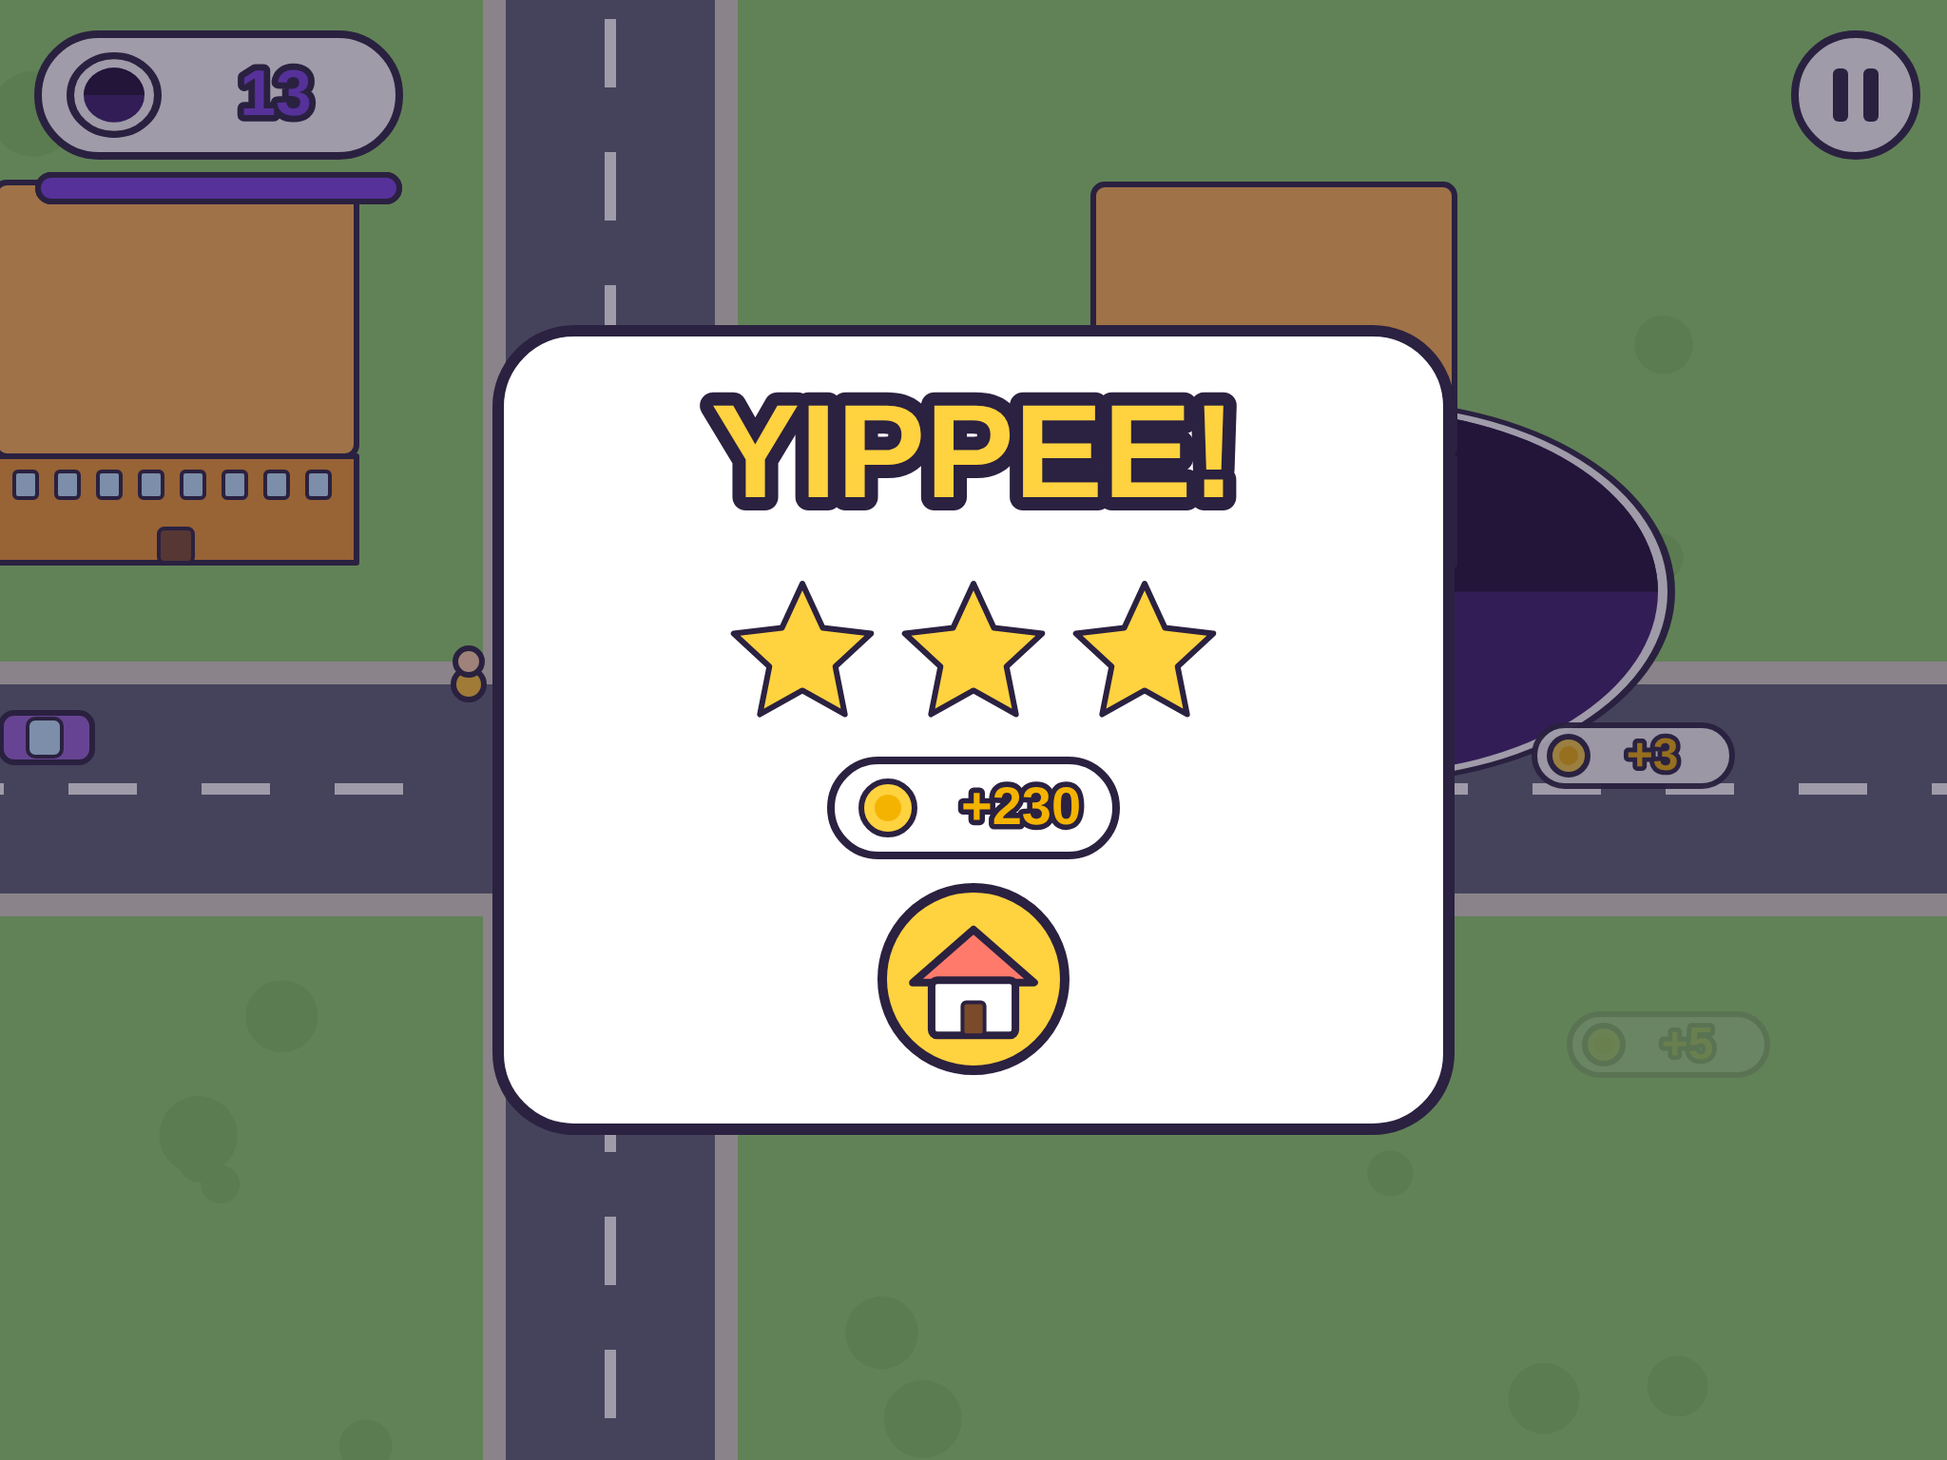
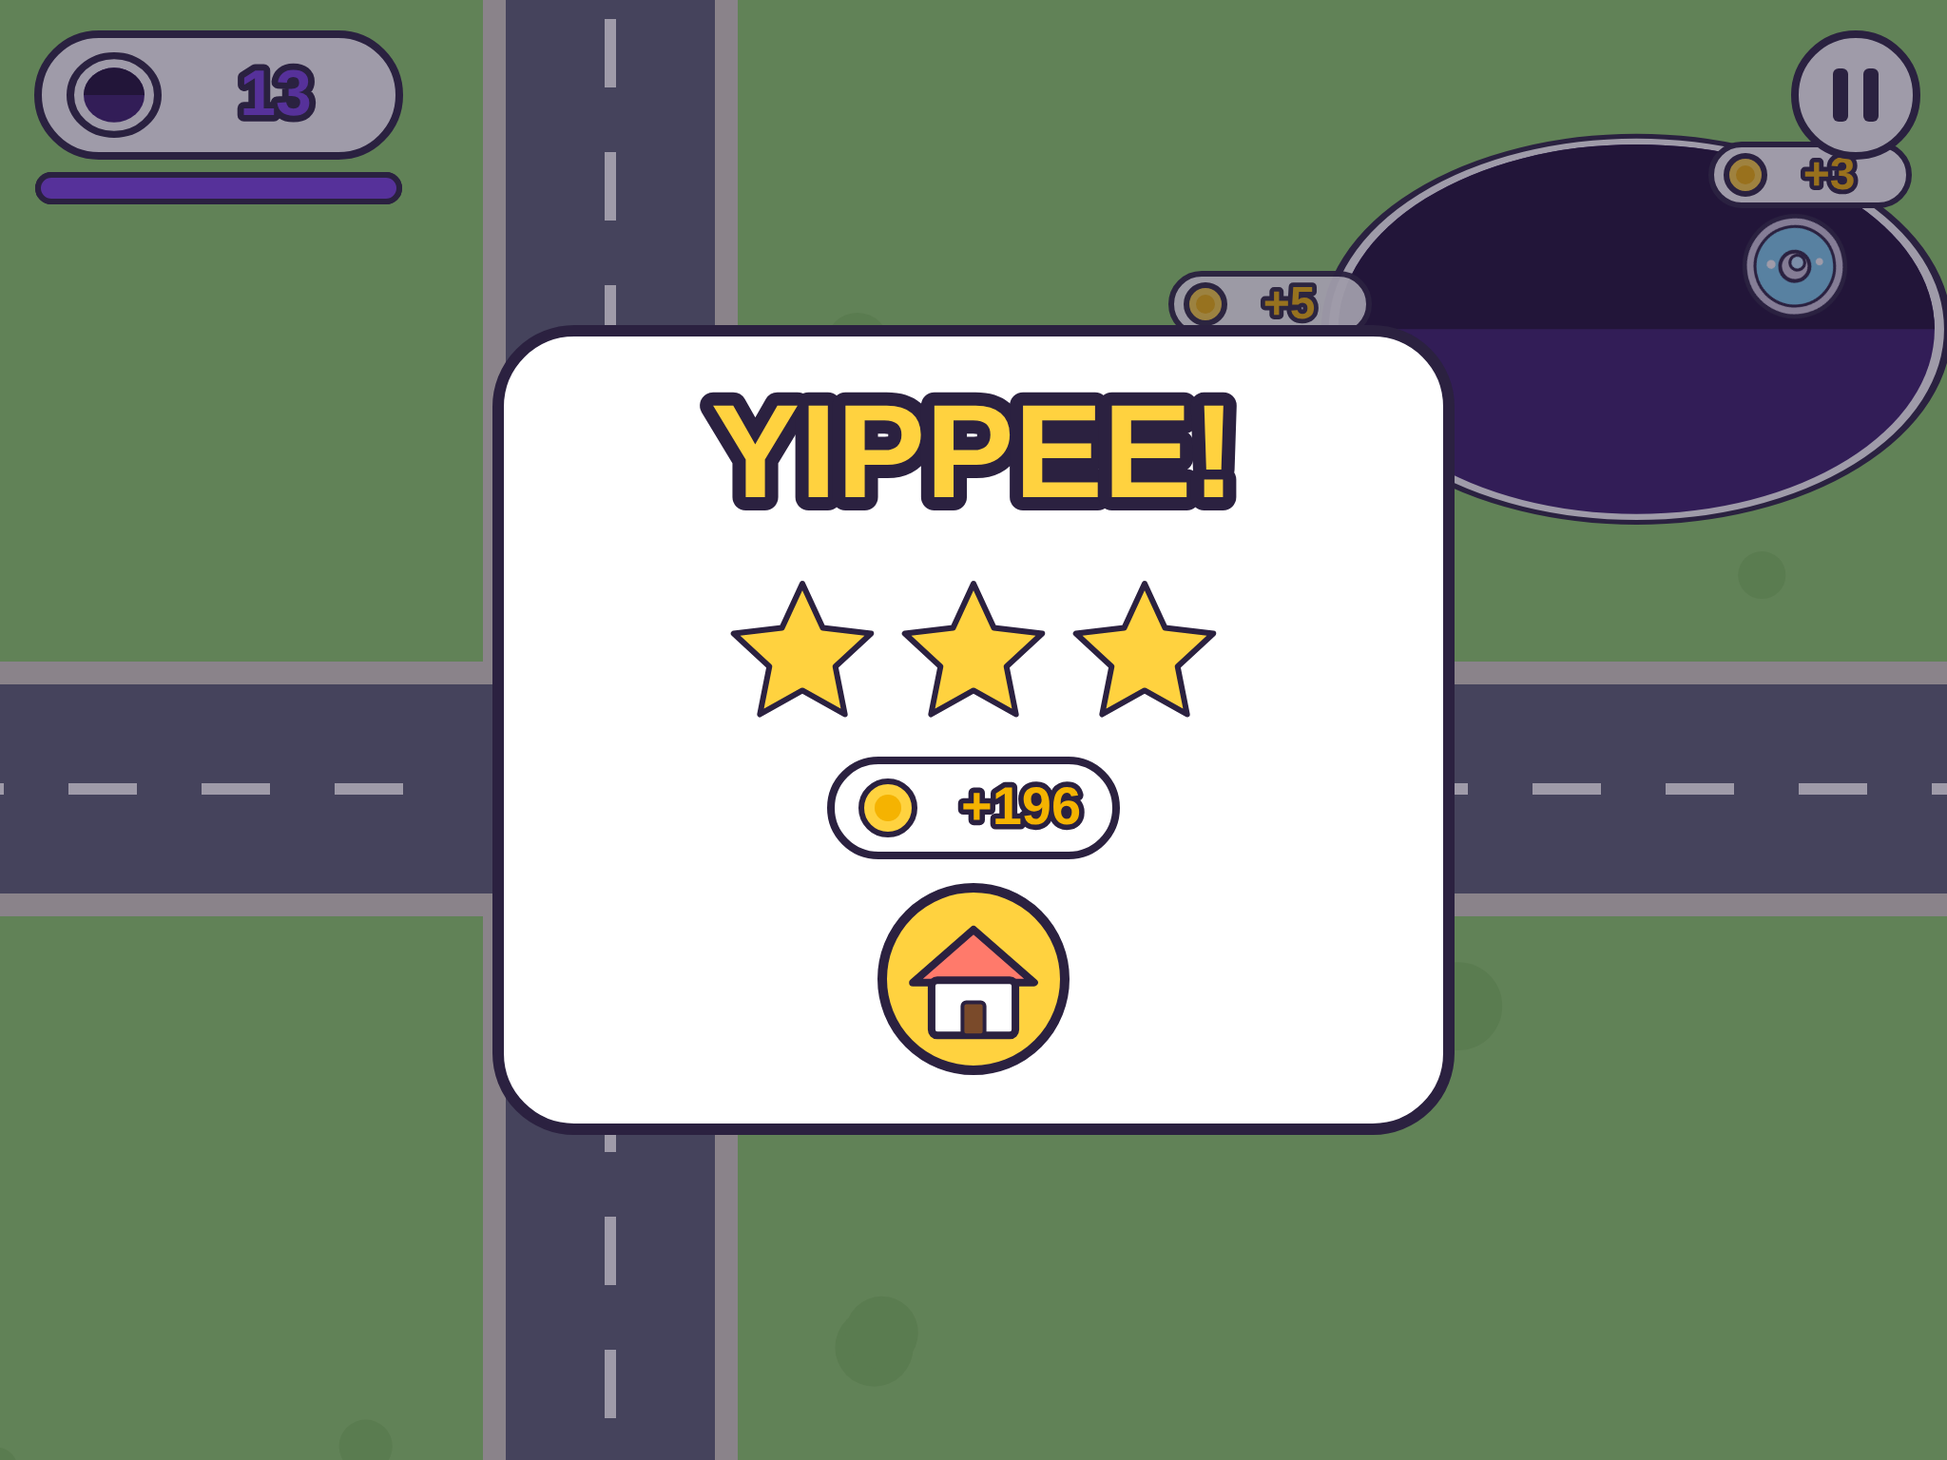
Add 25 everyday UK items; buildings always swallowable; cache v2

diff --git a/game.js b/game.js
@@ -41,6 +41,36 @@ function resize(){vw=window.innerWidth;vh=window.innerHeight;dpr=Math.min(window
 // ---------- sprites, prerendered once ----------
 const PCOL=['#ff6b6b','#4a90e2','#ffc531','#2fae8e','#b583f0'],CCOL=['#e9584e','#3d8be0','#9a62d8','#2fae8e','#ff7cb8'];
 const HOUSES=[[130,120,'#2fae8e','#43cba8'],[150,130,'#3d8be0','#5aa7ff'],[150,140,'#e9584e','#ff7a6b'],[160,150,'#e95c9c','#ff7cb8'],[170,130,'#9a62d8','#b583f0'],[160,180,'#3d8be0','#5aa7ff'],[170,170,'#e9584e','#ff7a6b'],[190,200,'#f39a2d','#ffb54f']];
+
+// ---------- everyday items (UK flavour), prerendered once ----------
+// [w,h,size,coins,tier(0 small,1 medium,2 big,3 moving),draw]
+const ITEMS=[
+ [18,18,7,1,0,x=>{C(x,0,0,8,'#fff',2.5);C(x,0,0,3,O,0);C(x,-5,-3,1.6,O,0);C(x,5,-2,1.6,O,0);C(x,0,5,1.6,O,0);}], // football
+ [22,24,9,1,0,x=>{C(x,-7,-9,4,'#b07a4a',2);C(x,7,-9,4,'#b07a4a',2);C(x,0,4,8,'#b07a4a',2.5);C(x,0,-5,7,'#c98d58',2.5);C(x,0,-4,2,O,0);}], // teddy
+ [22,18,8,1,0,x=>{R(x,-9,-2,18,10,'#ffd23f',5,2.5);C(x,4,-4,5,'#ffd23f',2.5);R(x,8,-5,6,3,'#f39a2d',1,1.5);C(x,5,-5,1.2,O,0);}], // rubber duck
+ [22,30,9,1,0,x=>{C(x,-5,-8,4,'#ff7cb8',2);C(x,5,-9,4,'#ffd23f',2);C(x,0,-12,4,'#b583f0',2);R(x,-8,-4,16,15,'#d9763c',3,2.5);}], // flower pot
+ [18,22,8,1,0,x=>{x.beginPath();x.moveTo(0,-10);x.lineTo(7,8);x.lineTo(-7,8);x.closePath();x.fillStyle='#ff8a2a';x.fill();x.lineWidth=2.5;x.strokeStyle=O;x.stroke();R(x,-4,-1,8,3,'#fff',0,0);R(x,-10,7,20,4,'#ff8a2a',2,2);}], // traffic cone
+ [18,30,12,1,0,x=>{R(x,-8,-13,16,26,'#e23b3b',6,2.5);R(x,-5,-6,10,3,O,1,0);R(x,-8,8,16,5,'#2b2140',2,0);}], // post box
+ [24,26,13,1,0,x=>{R(x,-9,-9,18,20,'#2e6b45',3,2.5);R(x,-10,-12,20,5,'#24553a',2,2);C(x,-6,11,2.5,O,0);}], // wheelie bin
+ [16,52,14,1,0,x=>{R(x,-2,-16,4,40,'#4a4e63',2,1.5);R(x,-6,-24,12,9,'#ffe68a',3,2.5);}], // lamp post
+ [26,28,14,1,0,x=>{R(x,-11,-8,22,12,'#2a3f8f',5,2.5);x.beginPath();x.arc(-5,-7,7,Math.PI,0);x.fillStyle='#1f2f6e';x.fill();x.lineWidth=2.5;x.strokeStyle=O;x.stroke();C(x,-7,7,3.5,'#555',2);C(x,7,7,3.5,'#555',2);}], // pram
+ [38,22,16,2,0,x=>{C(x,-11,4,7,'#ffffff',2.5);C(x,11,4,7,'#ffffff',2.5);x.beginPath();x.moveTo(-11,4);x.lineTo(-2,-5);x.lineTo(8,-5);x.lineTo(11,4);x.moveTo(-2,-5);x.lineTo(0,4);x.lineTo(8,-5);x.lineWidth=3;x.strokeStyle='#2fae8e';x.stroke();R(x,-5,-9,7,3,O,1,0);}], // bike
+ [30,24,12,1,0,x=>{R(x,-12,4,22,4,'#ff7cb8',2,2);R(x,8,-10,3,16,'#9b93ad',1,1.5);R(x,4,-11,11,3,O,1,0);C(x,-10,9,3,'#555',1.5);C(x,9,9,3,'#555',1.5);}], // scooter
+ [26,26,14,1,0,x=>{R(x,-11,-11,22,22,'#fff',3,2.5);R(x,-11,-11,7,22,'#4a90e2',0,0);R(x,4,-11,7,22,'#4a90e2',0,0);x.lineWidth=2.5;x.strokeStyle=O;x.beginPath();x.roundRect(-11,-11,22,22,3);x.stroke();}], // deckchair
+ [24,44,20,2,0,x=>{R(x,-10,-19,20,38,'#e23b3b',4,2.5);for(let r=0;r<3;r++)for(let c=0;c<2;c++)R(x,-6+c*7,-14+r*9,5,6,'#bfe8ff',1,1.5);R(x,-8,-21,16,4,'#e23b3b',2,2);}], // phone box
+ [46,40,22,2,0,x=>{R(x,-20,-17,40,7,'#a5683a',3,2.5);R(x,-16,-6,32,12,'#c97a3a',3,2.5);R(x,-20,10,40,7,'#a5683a',3,2.5);}], // picnic table
+ [44,46,22,3,0,x=>{R(x,-16,-4,32,20,'#bfe8ff',4,2.5);C(x,-10,17,4,'#555',2);C(x,10,17,4,'#555',2);R(x,-1,-18,2,16,O,0,0);x.beginPath();x.arc(0,-14,15,Math.PI,0);x.fillStyle='#ff7cb8';x.fill();x.lineWidth=2.5;x.strokeStyle=O;x.stroke();R(x,-3,-28,6,12,'#fff',0,0);C(x,0,4,4,'#ffd2a8',1.5);}], // ice-cream cart
+ [64,24,26,2,0,x=>{R(x,-30,-9,60,20,'#2f8f45',9,2.5);C(x,-18,-8,7,'#3fbf5a',0);C(x,0,-10,8,'#3fbf5a',0);C(x,18,-8,7,'#3fbf5a',0);}], // hedge
+ [58,58,34,3,1,x=>{R(x,-26,-12,52,36,'#c97a3a',4,3);x.beginPath();x.moveTo(-30,-10);x.lineTo(0,-27);x.lineTo(30,-10);x.closePath();x.fillStyle='#5a3a24';x.fill();x.lineWidth=3;x.strokeStyle=O;x.stroke();R(x,-6,4,12,20,'#8a5a32',2,2);R(x,10,-2,10,10,'#bfe8ff',2,2);}], // garden shed
+ [44,70,36,3,1,x=>{R(x,-18,-30,8,60,'#9b93ad',3,2.5);R(x,10,-30,8,60,'#9b93ad',3,2.5);for(let i=-24;i<26;i+=10)R(x,-14,i,28,3,O,1,0);R(x,-10,-34,20,64,'#ff7a6b',8,3);}], // slide
+ [74,44,38,3,1,x=>{x.lineWidth=5;x.strokeStyle='#4a4e63';x.beginPath();x.moveTo(-34,18);x.lineTo(-30,-18);x.lineTo(30,-18);x.lineTo(34,18);x.stroke();x.lineWidth=2;x.strokeStyle=O;x.beginPath();x.moveTo(-14,-18);x.lineTo(-14,6);x.moveTo(-4,-18);x.lineTo(-4,6);x.moveTo(6,-18);x.lineTo(6,6);x.moveTo(16,-18);x.lineTo(16,6);x.stroke();R(x,-17,4,16,5,'#ffd23f',2,2);R(x,3,4,16,5,'#4a90e2',2,2);}], // swings
+ [78,78,40,3,1,x=>{C(x,0,0,34,'#cfc8dc',3);C(x,0,0,27,'#7fd0f0',2);C(x,0,0,10,'#cfc8dc',2.5);C(x,0,-3,5,'#bfe8ff',2);C(x,-14,8,3,'#fff',0);C(x,12,-12,2.5,'#fff',0);}], // fountain
+ [150,150,78,5,2,x=>{C(x,0,0,66,'#fff',4);C(x,0,0,52,'#3fbf5a',3);for(let i=0;i<8;i++){const a=i*Math.PI/4;R(x,Math.cos(a)*44-4,Math.sin(a)*44-4,8,8,'#fff',2,2);}C(x,0,0,18,'#e23b3b',3);C(x,0,0,6,'#ffd23f',2);}], // bandstand
+ [170,160,84,5,2,x=>{bld(x,-85,-80,170,160,52,'#2fae8e','#43cba8');for(let i=0;i<8;i++)R(x,-85+i*21.25,22,21.25,14,i%2?'#fff':'#e23b3b',0,0);x.lineWidth=3;x.strokeStyle=O;x.strokeRect(-85,22,170,14);R(x,-50,-74,100,26,'#ffd23f',6,3);coin(x,-30,-61,8);R(x,-15,-64,50,6,O,2,0);}], // corner shop
+ [74,36,40,3,3,x=>{R(x,-34,-15,68,30,'#ffd1e8',8,3);R(x,-34,-15,68,8,'#ff7cb8',4,0);R(x,-10,-10,24,20,'#bfe8ff',3,2);R(x,20,-11,10,20,'#bfe8ff',3,2);x.beginPath();x.moveTo(-26,-2);x.lineTo(-20,10);x.lineTo(-14,-2);x.closePath();x.fillStyle='#e8b26a';x.fill();x.stroke();C(x,-20,-5,6,'#fff',2);}], // ice-cream van
+ [54,30,34,3,3,x=>{R(x,-25,-13,50,26,'#222',8,3);R(x,-10,-10,18,20,'#bfe8ff',4,2);R(x,-4,-5,8,10,'#ffd23f',2,2);}], // black cab
+ [104,40,56,5,3,x=>{R(x,-50,-17,100,34,'#e23b3b',8,3);R(x,-40,-6,70,4,'#cfc8dc',1,1.5);R(x,-40,2,70,4,'#cfc8dc',1,1.5);for(let i=-36;i<30;i+=10)R(x,i,-6,2,12,'#cfc8dc',0,0);R(x,32,-12,14,24,'#bfe8ff',3,2);C(x,40,-14,3,'#4a90e2',1.5);}], // fire engine
+];
 const SP={};
 function mk(w,h,fn,sc){sc=sc||K;const pad=5,c=document.createElement('canvas');c.width=Math.ceil((w+pad*2)*sc);c.height=Math.ceil((h+pad*2)*sc);
  const x=c.getContext('2d');x.setTransform(sc,0,0,sc,c.width/2,c.height/2);x.lineJoin='round';x.lineCap='round';fn(x);return {c:c,ox:Math.round(c.width/2),oy:Math.round(c.height/2)};}
@@ -54,6 +84,7 @@ function bake(){
  SP.bus=mk(124,40,x=>bus(x));
  SP.house=HOUSES.map(h=>mk(h[0],h[1],x=>bld(x,-h[0]/2,-h[1]/2,h[0],h[1],Math.round(h[1]*.28),h[2],h[3])));
  SP.yip=['#ffd23f','#ff7cb8','#8fe3ff'].map(f=>mk(300,80,x=>T(x,'YIPPEE!',0,0,64,f)));
+ SP.item=ITEMS.map(it=>mk(it[0],it[1],it[5]));
  SP.pop=[1,2,3,5].map(n=>mk(110,36,x=>{R(x,-52,-16,104,32,'#fff',16,3);coin(x,-34,0,10);T(x,'+'+n,10,0,24,'#f5b301');}));
  for(let i=0;i<NE;i++)assignSprite(E[i]);}
 let hudC=null,pauseC=null,hudDirty=1;
@@ -67,7 +98,7 @@ function drawHud(){const x=hudC.getContext('2d'),s=hs*dpr;x.setTransform(1,0,0,1
 const MAXE=170,E=[];for(let i=0;i<MAXE;i++)E.push({t:0,v2:0,spr:null,x:0,y:0,s:0,c:0,alive:0,fall:0,fx:0,fy:0,mv:0,a:0,b:0,v:0,ph:0,hb:0});
 let NE=0;const ORDER=new Int16Array(MAXE);
 const COIN=[1,1,1,2,3,5,5],SIZE=[9,10,17,19,34,64,0];
-function assignSprite(e){const t=e.t;e.spr=t==0?SP.person[e.v2]:t==1?SP.bin:t==2?SP.bench:t==3?SP.tree:t==4?(e.mv==1?SP.carH[e.v2]:SP.carV[e.v2]):t==5?SP.bus:SP.house[e.v2];}
+function assignSprite(e){const t=e.t;if(t==7){e.spr=SP.item[e.v2];return;}e.spr=t==0?SP.person[e.v2]:t==1?SP.bin:t==2?SP.bench:t==3?SP.tree:t==4?(e.mv==1?SP.carH[e.v2]:SP.carV[e.v2]):t==5?SP.bus:SP.house[e.v2];}
 // spatial grid (counting sort into typed arrays; no allocation)
 const GC=128,GX=WW/GC,GY=WH/GC,GN=GX*GY,gCount=new Int16Array(GN+1),gStart=new Int16Array(GN+1),gItems=new Int16Array(MAXE),eCell=new Int16Array(MAXE);
 function gridBuild(){gCount.fill(0);for(let i=0;i<NE;i++){const e=E[i];if(!e.alive||e.fall){eCell[i]=-1;continue;}let cx=(e.x/GC)|0,cy=(e.y/GC)|0;cx=cx<0?0:cx>=GX?GX-1:cx;cy=cy<0?0:cy>=GY?GY-1:cy;const c=cy*GX+cx;eCell[i]=c;gCount[c]++;}
@@ -77,7 +108,7 @@ function gridBuild(){gCount.fill(0);for(let i=0;i<NE;i++){const e=E[i];if(!e.ali
 const YP=[],CP=[];for(let i=0;i<3;i++)YP.push({on:0,t:0,x:0,y:0,s:0});for(let i=0;i<5;i++)CP.push({on:0,t:0,x:0,y:0,s:0});
 function spawn(pool,x,y,s){let best=pool[0];for(let i=0;i<pool.length;i++){if(!pool[i].on){best=pool[i];break;}if(pool[i].t>best.t)best=pool[i];}best.on=1;best.t=0;best.x=x;best.y=y;best.s=s;}
 // ---------- level ----------
-const LV=[{tg:58,n:[28,8,8,16,6,0,3],mc:4,par:60},{tg:80,n:[30,10,10,18,12,1,6],mc:8,par:80},{tg:100,n:[34,10,10,20,14,2,9],mc:9,par:100},{tg:122,n:[38,12,12,20,16,3,11],mc:10,par:120},{tg:150,n:[40,12,12,22,18,4,14],mc:12,par:140}];
+const LV=[{tg:58,n:[24,8,6,12,6,0,3],mc:4,par:60,it:[14,2,0,1]},{tg:80,n:[26,8,8,14,10,1,6],mc:7,par:80,it:[16,3,0,2]},{tg:100,n:[28,8,8,16,12,1,8],mc:8,par:100,it:[18,4,1,2]},{tg:122,n:[30,8,8,16,14,2,10],mc:8,par:120,it:[18,5,1,3]},{tg:150,n:[32,8,8,16,14,2,12],mc:9,par:140,it:[20,5,2,3]}];
 const HR=[[360,470],[860,970]],VR=[[560,670],[1290,1400]];
 const BLOCKS=[];{const xs=[[0,548],[682,1278],[1412,2048]],ys=[[0,348],[482,848],[982,1280]];for(const a of xs)for(const b of ys)BLOCKS.push([a[0]+16,b[0]+16,a[1]-16,b[1]-16]);}
 const DECO=new Float32Array(120);let ND=0;
@@ -92,6 +123,8 @@ function buildLevel(n){const cfg=LV[n],r=rng(1234+n*777),boxes=[[1340,210,1540,3
  // houses: smallest designs for early levels
  const hs2=[];for(let i=0;i<cfg.n[6];i++)hs2.push(Math.min(7,Math.floor(i*(n+4)/cfg.n[6]+ (n>=3?1:0))));
  for(const d of hs2){const h=HOUSES[d],p=place(h[0],h[1]);if(p){const e=add(6,p[0],p[1],d,0);e.s=Math.round(.48*Math.max(h[0],h[1]));e.hb=h[1]/2;}}
+ const tier=t=>{const a=[];ITEMS.forEach((it,i)=>{if(it[4]==t)a.push(i);});return a;};
+ for(let tt=2;tt>=0;tt--){const pool=tier(tt);for(let i=0;i<cfg.it[tt];i++){const id=pool[(i*7+n*3)%pool.length],it=ITEMS[id],p=place(it[0],it[1]);if(p){const e=add(7,p[0],p[1],id,0);e.s=it[2];e.c=it[3];e.hb=it[1]/2;}}}
  const sz=[0,[16,20],[34,12],[36,40]];
  for(let t=3;t>=1;t--)for(let i=0;i<cfg.n[t];i++){const p=place(sz[t][0],sz[t][1]);if(p)add(t,p[0],p[1],0,0);}
  // people: half stand in blocks, half walk on pavements
@@ -100,9 +133,9 @@ function buildLevel(n){const cfg=LV[n],r=rng(1234+n*777),boxes=[[1340,210,1540,3
   e.v=(20+r()*14)/(e.b-e.a);e.fx=r();}}
  // moving vehicles on 4 horizontal lanes, evenly spaced so they never touch
  const lanes=[[HR[0][0]+28,-1],[HR[0][0]+82,1],[HR[1][0]+28,-1],[HR[1][0]+82,1]];const veh=[];
- for(let i=0;i<cfg.n[5];i++)veh.push(5);for(let i=0;i<cfg.mc;i++)veh.push(4);
+ for(let i=0;i<cfg.n[5];i++)veh.push(5);for(let i=0;i<cfg.mc;i++)veh.push(4);{const mv=tier(3);for(let i=0;i<cfg.it[3];i++)veh.splice(i*3+1,0,100+mv[(i+(n>=2?1:0))%(n>=2?3:2)]);}
  veh.forEach((t,i)=>{});const per=[[],[],[],[]];veh.forEach((t,i)=>per[i%4].push(t));
- per.forEach((list,li)=>{const Ln=WW+300,sp=(70+li*9)*lanes[li][1];list.forEach((t,j)=>{const e=add(t,0,lanes[li][0],t==4?(j+li)%5:0,1);e.a=Ln*j/list.length+r()*40;e.v=sp;});});
+ per.forEach((list,li)=>{const Ln=WW+300,sp=(70+li*9)*lanes[li][1];list.forEach((t,j)=>{const e=t>=100?add(7,0,lanes[li][0],t-100,1):add(t,0,lanes[li][0],t==4?(j+li)%5:0,1);if(t>=100){const it=ITEMS[t-100];e.s=it[2];e.c=it[3];}e.a=Ln*j/list.length+r()*40;e.v=sp;});});
  // parked cars on the vertical roads
  for(let i=0;i<cfg.n[4]-cfg.mc;i++){const R2=VR[i%2],x=R2[0]+(i%4<2?28:82);let y;for(let q=0;q<30;q++){y=60+r()*1160;if(!(y>HR[0][0]-40&&y<HR[0][1]+40)&&!(y>HR[1][0]-40&&y<HR[1][1]+40)&&free(x-15,y-26,x+15,y+26))break;}boxes.push([x-15,y-26,x+15,y+26]);add(4,x,y,i%5,0);}
  ND=0;for(let i=0;i<40;i++){const p=place(30,30);if(p){DECO[ND*3]=p[0];DECO[ND*3+1]=p[1];DECO[ND*3+2]=10+r()*14;ND++;boxes.pop();}}
@@ -111,9 +144,11 @@ function buildLevel(n){const cfg=LV[n],r=rng(1234+n*777),boxes=[[1340,210,1540,3
  const idx=[];for(let i=0;i<NE;i++)idx.push(i);const lay=e=>e.mv==1?2:e.mv==2?1:0;idx.sort((a,b)=>lay(E[a])-lay(E[b])||(E[a].y+E[a].hb)-(E[b].y+E[b].hb));idx.forEach((v,i)=>ORDER[i]=v);
  // growth tuned so eating everything gives 1.3x the target
  const ss=[];for(let i=0;i<NE;i++)ss.push(E[i].s);ss.sort((a,b)=>a-b);
+ // the target always sits above the biggest building, so everything is swallowable before the level ends
+ const maxS=ss[ss.length-1],tg=Math.max(cfg.tg,Math.ceil(maxS/.95)+12);L.maxS=maxS;
  const sim=gn=>{let rr=30;for(const s of ss){if(s>=rr*.95)break;rr=Math.min(190,Math.sqrt(rr*rr+gn*s*s));}return rr;};
- let lo=.05,hi=3;for(let q=0;q<40;q++){const m=(lo+hi)/2;if(sim(m)>=Math.min(185,cfg.tg*1.3))hi=m;else lo=m;}
- L.gain=hi;L.n=n;L.tg=cfg.tg;L.t=0;L.earned=0;L.winT=0;L.done=0;hole_.x=980;hole_.y=640;hole_.r=hole_.rt=30;
+ let lo=.05,hi=3;for(let q=0;q<40;q++){const m=(lo+hi)/2;if(sim(m)>=Math.min(186,tg*1.25))hi=m;else lo=m;}
+ L.gain=hi;L.n=n;L.tg=tg;L.t=0;L.earned=0;L.winT=0;L.done=0;hole_.x=980;hole_.y=640;hole_.r=hole_.rt=30;
  for(const p of YP)p.on=0;for(const p of CP)p.on=0;moveAll();}
 function moveAll(){const t=L.t;for(let i=0;i<NE;i++){const e=E[i];if(e.mv==1){const Ln=WW+300;let p=(e.a+e.v*t)%Ln;if(p<0)p+=Ln;e.x=p-150;}
  else if(e.mv==2){let q=(e.fx+e.v*t)%2;const f=q<1?q:2-q,pos=e.a+(e.b-e.a)*f;if(e.ph)e.y=pos;else e.x=pos;}}}

diff --git a/tools/test.js b/tools/test.js
@@ -4,7 +4,7 @@ const sleep=ms=>new Promise(r=>setTimeout(r,ms));
 async function bot(pg,ox,oy,maxMs){ // continuous drag: mouse held down the whole level
  await pg.mouse.move(ox,oy);await pg.mouse.down();const t0=Date.now();
  while(Date.now()-t0<maxMs){const s=await pg.evaluate(()=>{const m=__mh;if(m.state!=='play')return null;const h=m.hole;let best=null,bd=1e9;
-   for(let i=0;i<m.NE;i++){const e=m.E[i];if(!e.alive||e.fall||e.s>=h.r*.95)continue;const d=Math.hypot(e.x-h.x,e.y-h.y);if(d<bd){bd=d;best=e;}}
+   for(let i=0;i<m.NE;i++){const e=m.E[i];if(!e.alive||e.fall||e.s>=h.r*.95)continue;const d=Math.hypot(e.x-h.x,e.y-h.y)-(e.s>=m.L.maxS-1?5000:0);if(d<bd){bd=d;best=e;}}
    return best?{dx:best.x-h.x,dy:best.y-h.y}:{dx:0,dy:0};});
   if(!s)break;const d=Math.hypot(s.dx,s.dy)||1,m=Math.min(80,20+d);await pg.mouse.move(ox+s.dx/d*m,oy+s.dy/d*m,{steps:2});await sleep(60);}
  await pg.mouse.up();}
@@ -29,7 +29,7 @@ async function stats(pg){return pg.evaluate(()=>{const P=__mh.PERF,n=Math.min(P.
   await bp;
   if(lv==4)await pg.tracing.stop();
   const heap1=(await client.send('Runtime.getHeapUsage')).usedSize;
-  const st=await stats(pg);const info=await pg.evaluate(()=>({state:__mh.state,t:__mh.L.t,r:__mh.hole.r,tg:__mh.L.tg,stars:__mh.L.stars,coins:__mh.P.coins,gain:__mh.L.gain,NE:__mh.NE}));
+  const st=await stats(pg);const info=await pg.evaluate(()=>({state:__mh.state,t:__mh.L.t,r:__mh.hole.r,tg:__mh.L.tg,stars:__mh.L.stars,coins:__mh.P.coins,maxS:__mh.L.maxS,bigEaten:__mh.E.slice(0,__mh.NE).filter(e=>e.s>=__mh.L.maxS-1&&!e.alive).length,bigTotal:__mh.E.slice(0,__mh.NE).filter(e=>e.s>=__mh.L.maxS-1).length,eaten:__mh.E.slice(0,__mh.NE).filter(e=>!e.alive).length,gain:__mh.L.gain,NE:__mh.NE}));
   res['level'+(lv+1)]={...info,...st,heapDeltaKB:Math.round((heap1-heap0)/1024)};console.log(lv+1,JSON.stringify(res['level'+(lv+1)]));
   await sleep(400);await pg.screenshot({path:OUT+`0${6+lv}-level${lv+1}-complete.png`.replace('010','10')});
   if(lv<4)await pg.mouse.click(430,515);else await pg.mouse.click(512,515);await sleep(400);

diff --git a/tools/items-shots.js b/tools/items-shots.js
@@ -1,0 +1,9 @@
+const p=require('/tmp/pt/node_modules/puppeteer-core');const sleep=ms=>new Promise(r=>setTimeout(r,ms));
+(async()=>{const b=await p.launch({executablePath:'/usr/bin/google-chrome',headless:'new',args:['--no-sandbox']});const pg=await b.newPage();await pg.setViewport({width:1024,height:768,deviceScaleFactor:2});
+await pg.goto(process.env.URL);await pg.evaluate(()=>{localStorage.clear();localStorage.setItem('mollyHoleFresh1',JSON.stringify({coins:0,stars:[3,3,3,3,0],skin:0,owned:[1,0,0,0,0,0,0,0],gift:0}));});await pg.reload();await sleep(400);
+for(const [lv,xy,name] of [[2,[380,250],'new-items-level4'],[1,[280,470],'new-items-level2']]){await pg.mouse.click(...xy);await sleep(300);
+ // put the hole next to the busiest cluster of new items so the camera shows them
+ await pg.evaluate(()=>{const m=__mh;let best=0,bx=0,by=0;for(let i=0;i<m.NE;i++){const a=m.E[i];if(a.t!==7)continue;let c=0;for(let j=0;j<m.NE;j++){const e=m.E[j];if(e.t===7&&Math.abs(e.x-a.x)<400&&Math.abs(e.y-a.y)<300)c++;}if(c>best){best=c;bx=a.x;by=a.y;}}m.hole.x=bx+60;m.hole.y=by+60;});
+ await pg.mouse.move(600,400);await pg.mouse.down();await pg.mouse.move(640,400,{steps:4});await sleep(2500);await pg.mouse.up();await sleep(150);
+ await pg.screenshot({path:__dirname+'/../proof/'+name+'.png'});await pg.mouse.click(976,50);await sleep(300);await pg.mouse.click(512,505);await sleep(300);}
+await b.close();})();

diff --git a/sw.js b/sw.js
@@ -1,4 +1,4 @@
-const CACHE='molly-hole-fresh-v1';
+const CACHE='molly-hole-fresh-v2';
 const FILES=['./','index.html','game.js','manifest.webmanifest','icons/icon-180.png','icons/icon-192.png','icons/icon-512.png'];
 self.addEventListener('install',e=>{e.waitUntil(caches.open(CACHE).then(c=>c.addAll(FILES)).then(()=>self.skipWaiting()))});
 self.addEventListener('activate',e=>{e.waitUntil(caches.keys().then(ks=>Promise.all(ks.filter(k=>k!==CACHE).map(k=>caches.delete(k)))).then(()=>self.clients.claim()))});
